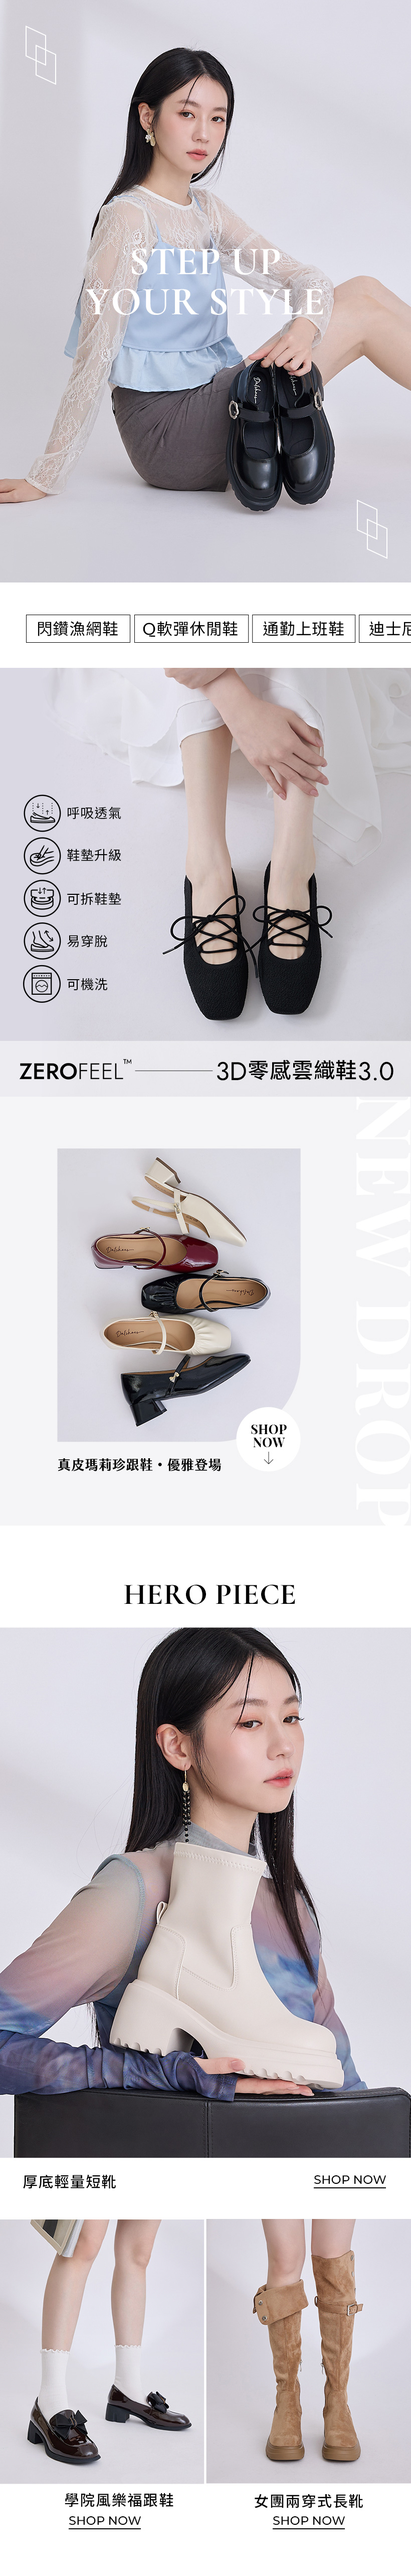
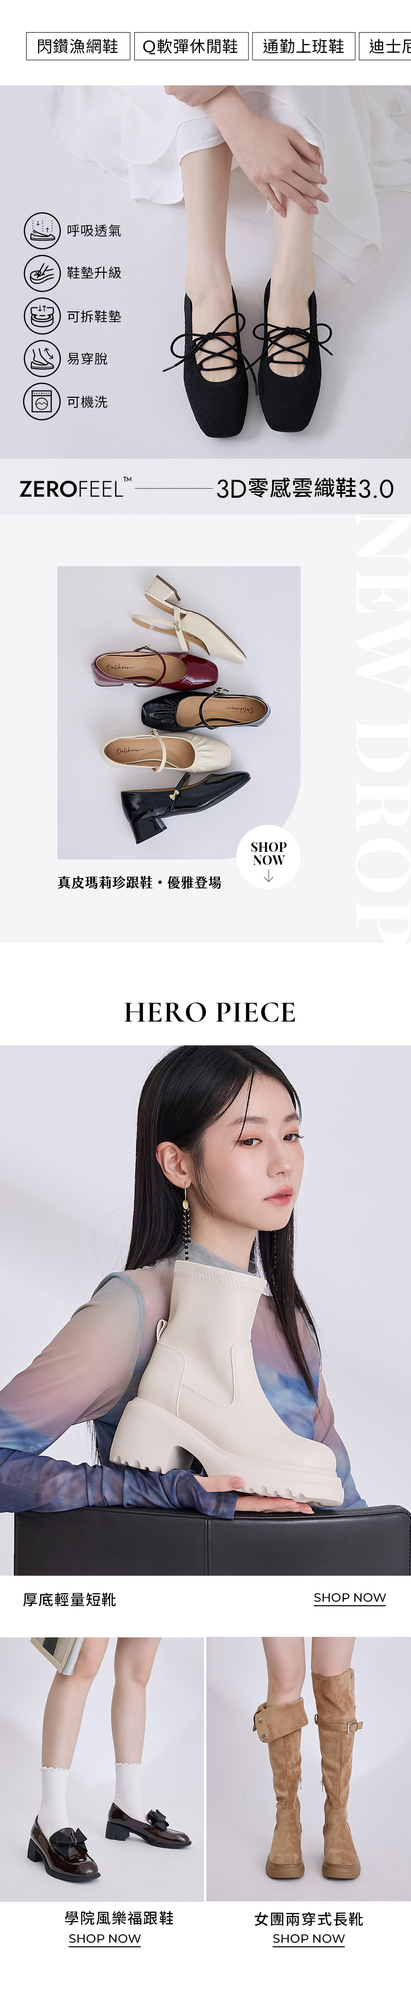
Update 加活動banner
20260831

diff --git a/index.html b/index.html
@@ -69,24 +69,24 @@ body { overflow-x: hidden; background: #000000; }
 </style>
 
 <div class="daf-container">
-    <!--<section class="mainkv">
+    <section class="mainkv">
         <div class="swiper-container mainkv-list">
             <div class="swiper-wrapper">
 				<div class="swiper-slide">
-                    <img class="pc" src="images/mainkv-1.jpg" alt="">
-                    <img class="mobile" src="images/mainkv-m1.jpg" alt="">
+                    <img class="pc" src="images/mainkv.jpg" alt="">
+                    <img class="mobile" src="images/mainkv-m.jpg" alt="">
                 </div>
 
                 <div class="swiper-slide">
-                    <img class="pc" src="images/mainkv-2.jpg" alt="">
-                    <img class="mobile" src="images/mainkv-m2.jpg" alt="">
+                    <img class="pc" src="images/99mainkv.jpg" alt="">
+                    <img class="mobile" src="images/99mainkv-m.jpg" alt="">
                 </div>
 			</div>
 			<div class="swiper-button-next"></div>
 			<div class="swiper-button-prev"></div>
 			<div class="swiper-pagination"></div>
 		</div>
-    </section>-->
+    </section>
     
     <section class="mainkv">
         <div class="pc"><img src="images/index.jpg"></div>
